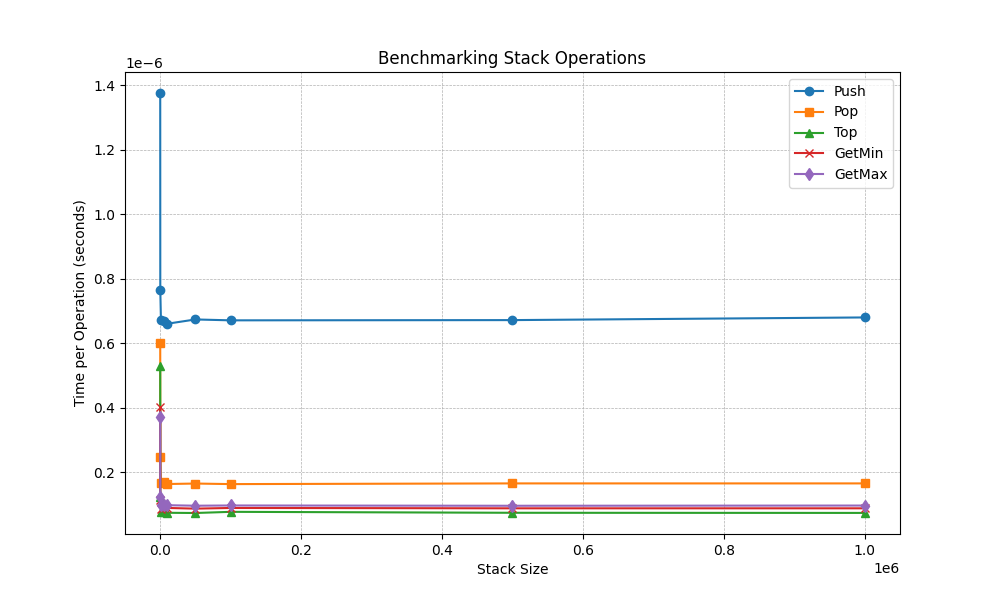
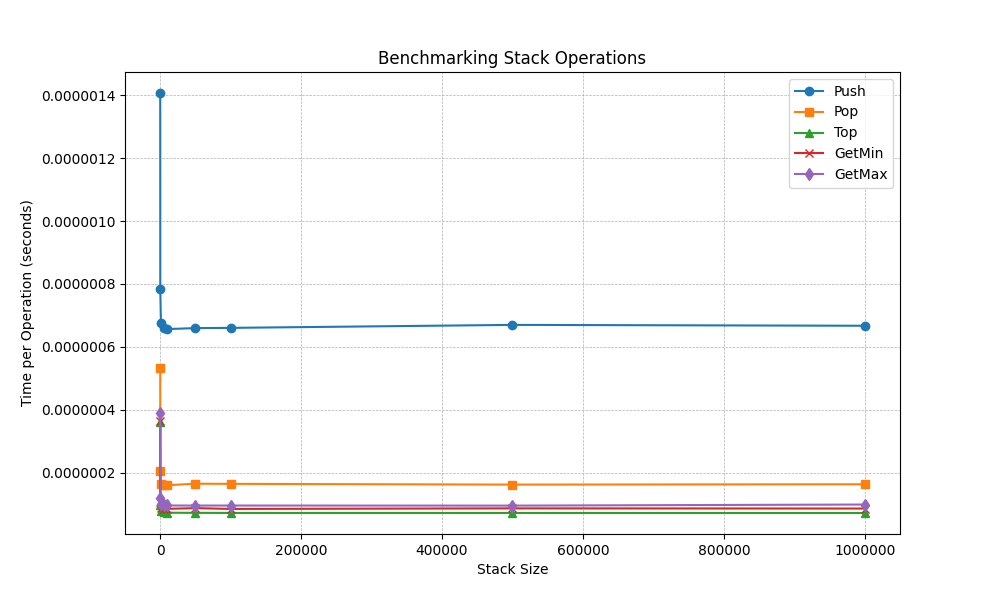
bench(stack): change `ticklabel_format` -> `plain`

diff --git a/benches/bench_stack.py b/benches/bench_stack.py
@@ -91,6 +91,8 @@ plt.plot(stack_sizes, max_times, label="GetMax", marker="d")
 
 plt.xlabel("Stack Size")
 plt.ylabel("Time per Operation (seconds)")
+plt.ticklabel_format(style="plain", axis="y")  # Disable scientific notation on Y-axis
+plt.ticklabel_format(style="plain", axis="x")  # Disable scientific notation on X-axis
 plt.title("Benchmarking Stack Operations")
 plt.legend()
 plt.grid(True, which="both", linestyle="--", linewidth=0.5)
